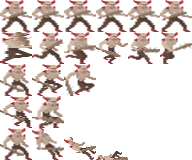
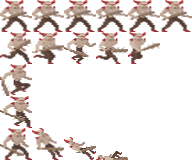
ajout slime sprint

Changed region(s): [[0.0, 0.1875, 1.0, 0.8125]]

diff --git a/Found_it/src/application/vue/CharacterVue.java b/Found_it/src/application/vue/CharacterVue.java
@@ -1,6 +1,8 @@
 package application.vue;
 
 
+import java.nio.MappedByteBuffer;
+
 import application.modele.Enemy;
 import application.modele.MainCharacter;
 import application.modele.Player;
@@ -34,23 +36,24 @@ public class CharacterVue {
 	}
 	
 	public void initImageCharacter() {
+		nbImage = new int[5];
 		if (c instanceof Player) {
 			character = new ImageView(new Image("application/vue/character/SwordsManAnim.png"));
-			int[] numberImage = {10,6,2,2,9};
+			nbImage[0]=10; nbImage[1]=6; nbImage[2]=2; nbImage[3]=2; nbImage[4]=9;
 		}
 		else if (c instanceof Zombie) {
 			character = new ImageView(new Image("application/vue/ennemies/ElDiabloAnimation.png"));
-			int[] numberImage = {6,6,3,2,4};
+			nbImage[0]=6; nbImage[1]=5; nbImage[2]=1; nbImage[3]=1; nbImage[4]=4;
 		}
 		else if (c instanceof Slime) {
-			character = new ImageView(new Image("application/vue/ennemies/slime.png"));
-			int[] numberImage = {10,6,2,2,9};
+			character = new ImageView(new Image("application/vue/ennemies/SlimesAnimation.png"));
+			nbImage[0]=9; nbImage[1]=9; nbImage[2]=9; nbImage[3]=9; nbImage[4]=9;
 		}
-		else if (c instanceof Squeleton)
-			character = new ImageView(new Image("application/vue/ennemies/squeleton.png"));
-			int[] numberImage = {10,6,2,2,9};
+		// else if (c instanceof Squeleton) {
+		// 	character = new ImageView(new Image("application/vue/ennemies/squeleton.png"));
+		// 	int[] nbImage = {10,6,2,2,9};
+		// }
 		character.setId(c.getId());
-		nbImage = numberImage;
 		character.setViewport(new Rectangle2D(0, 0, 32, 32));
 	}
 
@@ -62,6 +65,9 @@ public class CharacterVue {
 		return character;
 	}
 	
+	public int[] getNbImage() {
+		return nbImage;
+	}
 	
 	private void linkCharacter() {
 		character.translateXProperty().bind(c.getXProperty());
@@ -71,7 +77,7 @@ public class CharacterVue {
 
 	public void nextImage(int ligne) {
 		if (character.getViewport().getMinY() == ligne * 32) {
-			if (character.getViewport().getMaxX() >= 32 * nbImage[ligne])
+			if (isLastImage(ligne))
 				character.setViewport(new Rectangle2D(0, character.getViewport().getMinY(), 32, 32));
 			else
 				character.setViewport(new Rectangle2D(character.getViewport().getMaxX(), character.getViewport().getMinY(), 32, 32));
@@ -80,12 +86,22 @@ public class CharacterVue {
 			character.setViewport(new Rectangle2D(0, ligne * 32, 32, 32));
 		}
 	}
+	private boolean isLastImage(int ligne) {
+		return character.getViewport().getMaxX() >= 32 * nbImage[ligne];
+	}
 
 	private void initLoopImage() {
 		loopImage = new Timeline();
 		loopImage.setCycleCount(Timeline.INDEFINITE);
 		KeyFrame kf = new KeyFrame(Duration.seconds(0.12),(ev ->{
-			if (c.isJumpingBoolean())
+			if (!c.isAlive()) {
+				nextImage(4);
+				if (isLastImage(4)) {
+					mapPane.getChildren().remove(character);
+					loopImage.stop();
+				}
+			}
+			else if (c.isJumpingBoolean())
 				nextImage(2);
 			else if (c.isFallingBoolean())
 				nextImage(3);

diff --git a/Found_it/src/application/controller/ObsEnvironment.java b/Found_it/src/application/controller/ObsEnvironment.java
@@ -18,9 +18,7 @@ public class ObsEnvironment implements ListChangeListener<Enemy> {
     public void onChanged(Change<?extends Enemy> c) {
         while (c.next()) {
             for (Enemy e : c.getAddedSubList())
-                new CharacterVue(mapPane,e);
-            for (Enemy e : c.getRemoved())
-                mapPane.getChildren().remove(mapPane.lookup("#" + e.getId()));      
+                new CharacterVue(mapPane,e);   
         }
     }
     

diff --git a/Found_it/src/application/controller/Controller.java b/Found_it/src/application/controller/Controller.java
@@ -69,7 +69,7 @@ public class Controller  implements Initializable{
 		ListChangeListener<Projectile> pObs = new ObsProjectile(mapPane);
 		e.getListProjectileProperty().addListener(pObs);
 		e.addEnemy(new Zombie (400, 400, mapTile, 10, 40,e));
-		// e.addEnemy(new Slime (500, 150, mapTile, 10, 40,e));
+		e.addEnemy(new Slime (500, 150, mapTile, 10, 40,e));
 		// e.addEnemy(new Squeleton(500, 150, mapTile, 10, 40,e));
 		initGameLoop();
 		gameLoop.play();

diff --git a/Found_it/src/application/controller/KeyManager.java b/Found_it/src/application/controller/KeyManager.java
@@ -34,6 +34,13 @@ public class KeyManager implements EventHandler<KeyEvent> {
 					player.openCloseInventory();
 				}
 			break;
+			case Z : 
+				if (e.getEventType() == KeyEvent.KEY_RELEASED)
+					player.setVIT(2);
+				else
+					player.setVIT(3);
+	
+			break;
 			default:		
 			break;
 					

diff --git a/Found_it/src/application/modele/Environment.java b/Found_it/src/application/modele/Environment.java
@@ -29,6 +29,9 @@ public class Environment {
     public ObservableList<Projectile> getListProjectileProperty() {
         return listProjectile;
     }
+    public void removePlayer() {
+        player = null;
+    }
     public void addEnemy(Enemy e) {
         ennemies.add(e);
         e.gravity();

diff --git a/Found_it/src/application/modele/Player.java b/Found_it/src/application/modele/Player.java
@@ -60,6 +60,8 @@ public class Player extends MainCharacter {
 	}
 
 	public void update() {
+		if (!isAlive())
+			getEnvironment().removePlayer();
 		if (!isInInventory()) {
 			if (getLeftPressed())
 				moveLeft();
